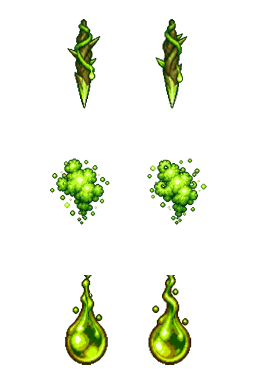
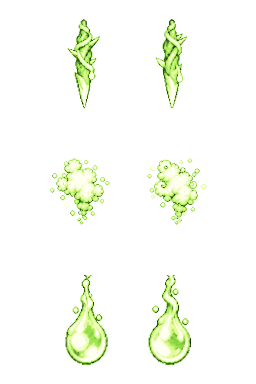
Verdant boss attack shots: pale pollen/cream recolour so they hold 3:1 over the jungle (no outlines, same cells)

diff --git a/Pause/Assets/Art/Resources/Bosses/src~/verdant_attackshots_recolor.py b/Pause/Assets/Art/Resources/Bosses/src~/verdant_attackshots_recolor.py
@@ -1,0 +1,19 @@
+# Recolours Verdant_attackshots.png (reads src~/Verdant_attackshots_orig.png) so the green/brown shots hold >=3:1 against the dark jungle
+# backdrop: luminance remapped onto a lime -> pollen -> cream ramp, the baked dark keyline kept dark. Alpha, grid and anchors untouched.
+import sys, numpy as np
+from PIL import Image
+src, dst = sys.argv[1], sys.argv[2]
+a = np.asarray(Image.open(src).convert('RGBA')).astype(float)
+rgb, al = a[..., :3] / 255, a[..., 3:]
+Y = .299*rgb[..., 0] + .587*rgb[..., 1] + .114*rgb[..., 2]
+stops = [(0, (150, 226, 72)), (.45, (226, 250, 150)), (1, (255, 255, 240))]
+lo_, hi_ = .20, .75
+t = np.clip((Y - lo_) / (hi_ - lo_), 0, 1)
+out = np.zeros_like(rgb)
+for ch in range(3):
+    out[..., ch] = np.interp(t, [s[0] for s in stops], [s[1][ch] for s in stops]) / 255
+dark = np.array([14, 36, 16]) / 255
+k = np.clip((Y - .08) / .14, 0, 1)[..., None]       # keyline stays dark, blends into the body
+out = dark * (1 - k) + out * k
+res = np.concatenate([out * 255, al], -1).round().clip(0, 255).astype(np.uint8)
+Image.fromarray(res, 'RGBA').save(dst)
